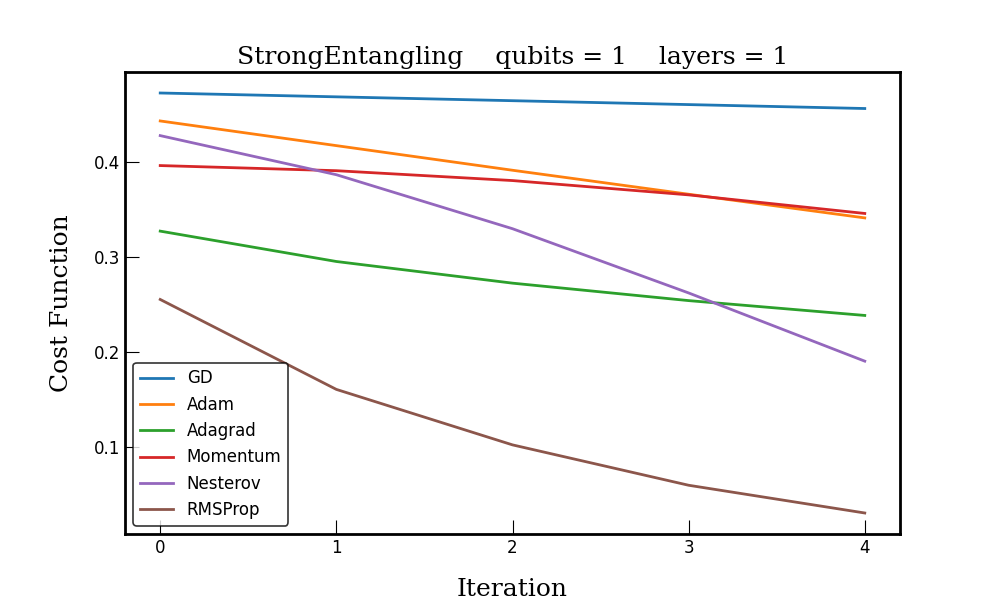
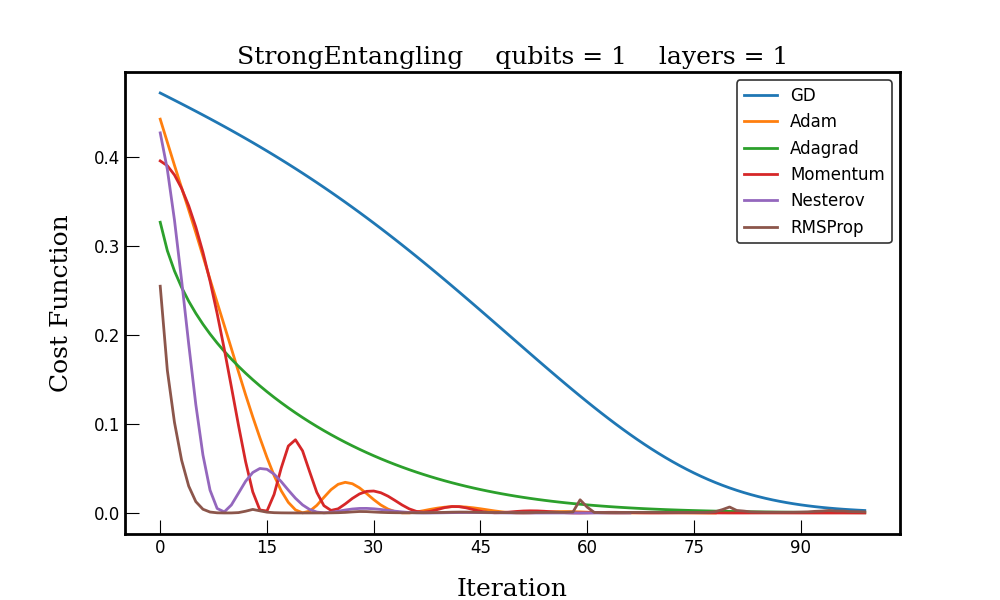
minor changes

diff --git a/src/vqls/vqls_fast_and_slow.py b/src/vqls/vqls_fast_and_slow.py
@@ -374,7 +374,7 @@ if __name__ == "__main__":
     nqubits = 1
     nlayers = 1
 
-    maxiter = 5
+    maxiter = 100
 
     # random symmetric positive definite matrix
     A0, b0 = utils.get_random_ls(nqubits, easy_example=True)
@@ -415,6 +415,6 @@ if __name__ == "__main__":
     title = "{:s}    qubits = {:d}    layers = {:d}".format(ansatz_.__class__.__name__, nqubits, nlayers)
     utils.plot_costs(data=cost_hists, save_png=True, title=title)
 
-    device_probs = LightningQubit(wires=nqubits, shots=100)
+    device_probs = LightningQubit(wires=nqubits, shots=10000)
 
     solver.plot_probs(device_probs, wopts)
